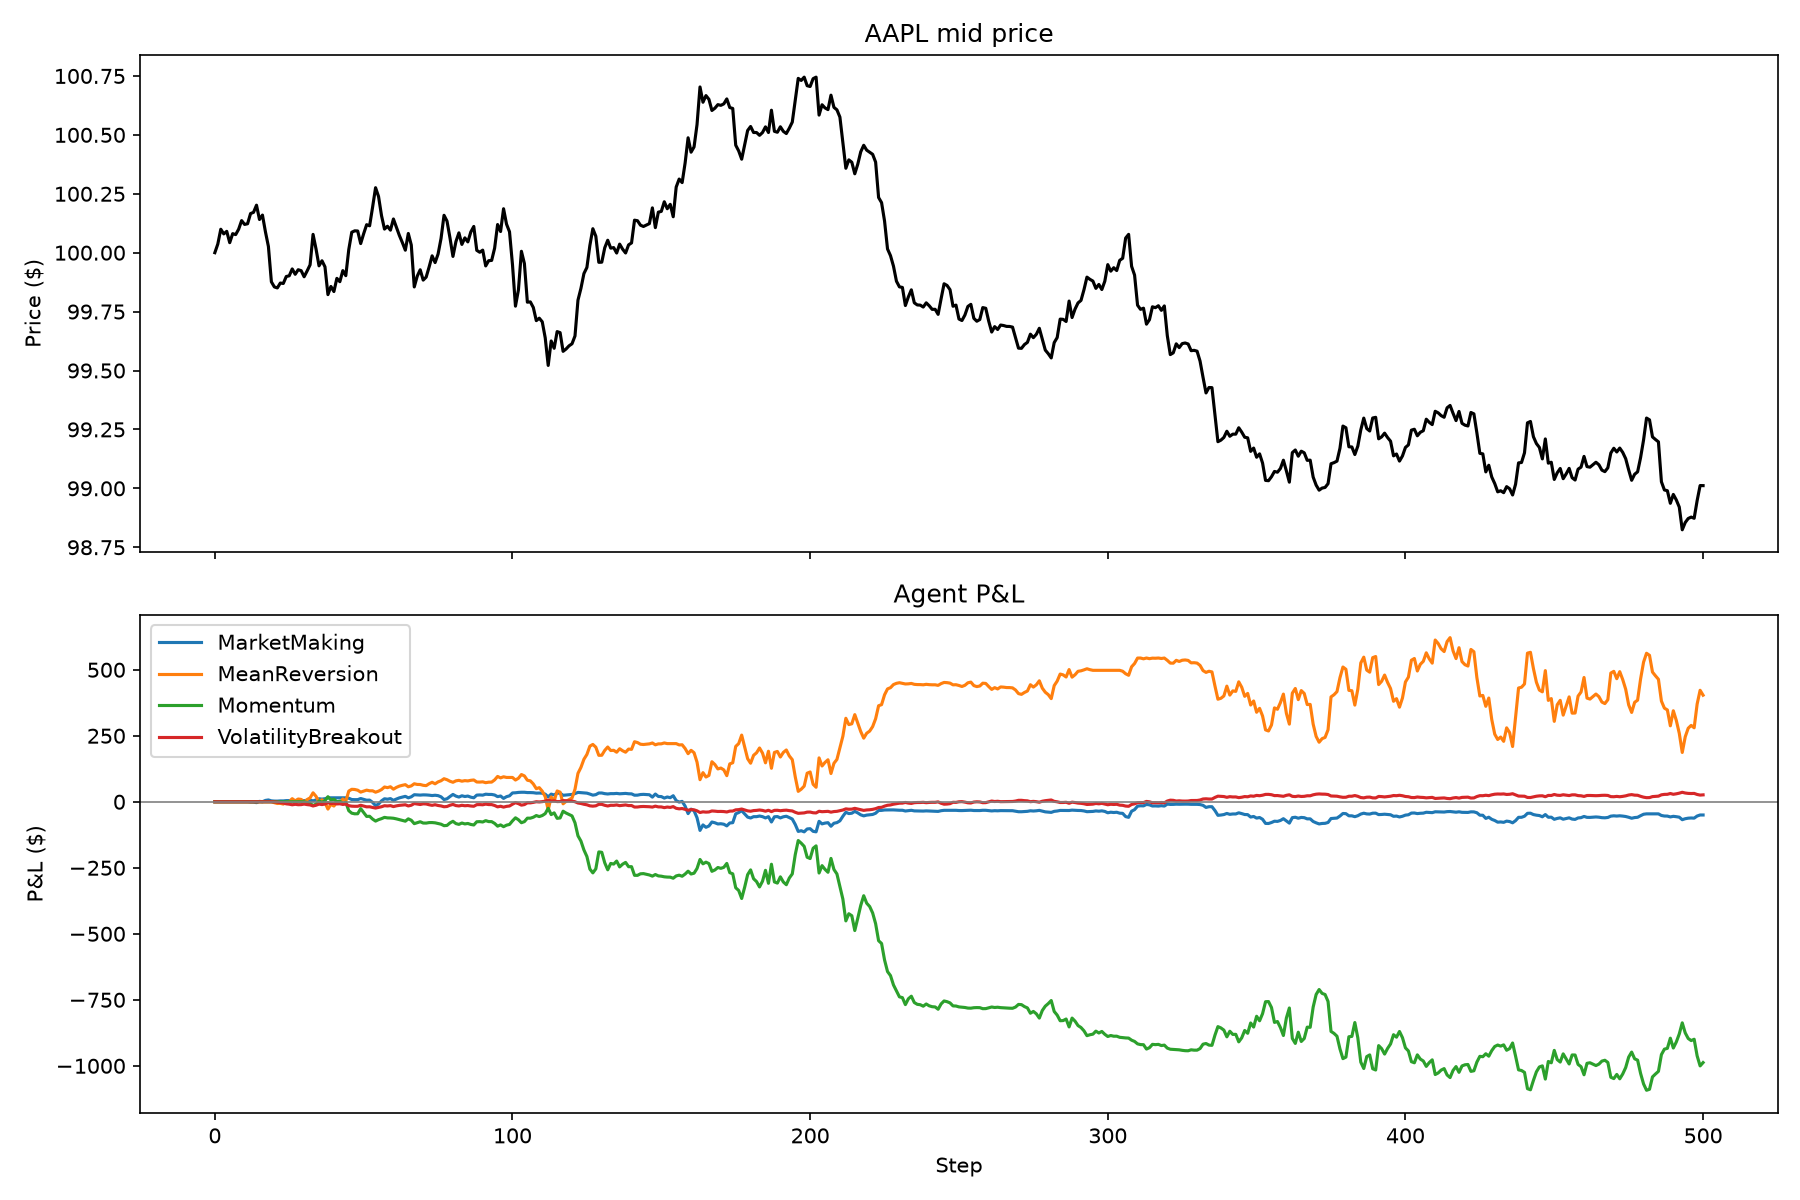
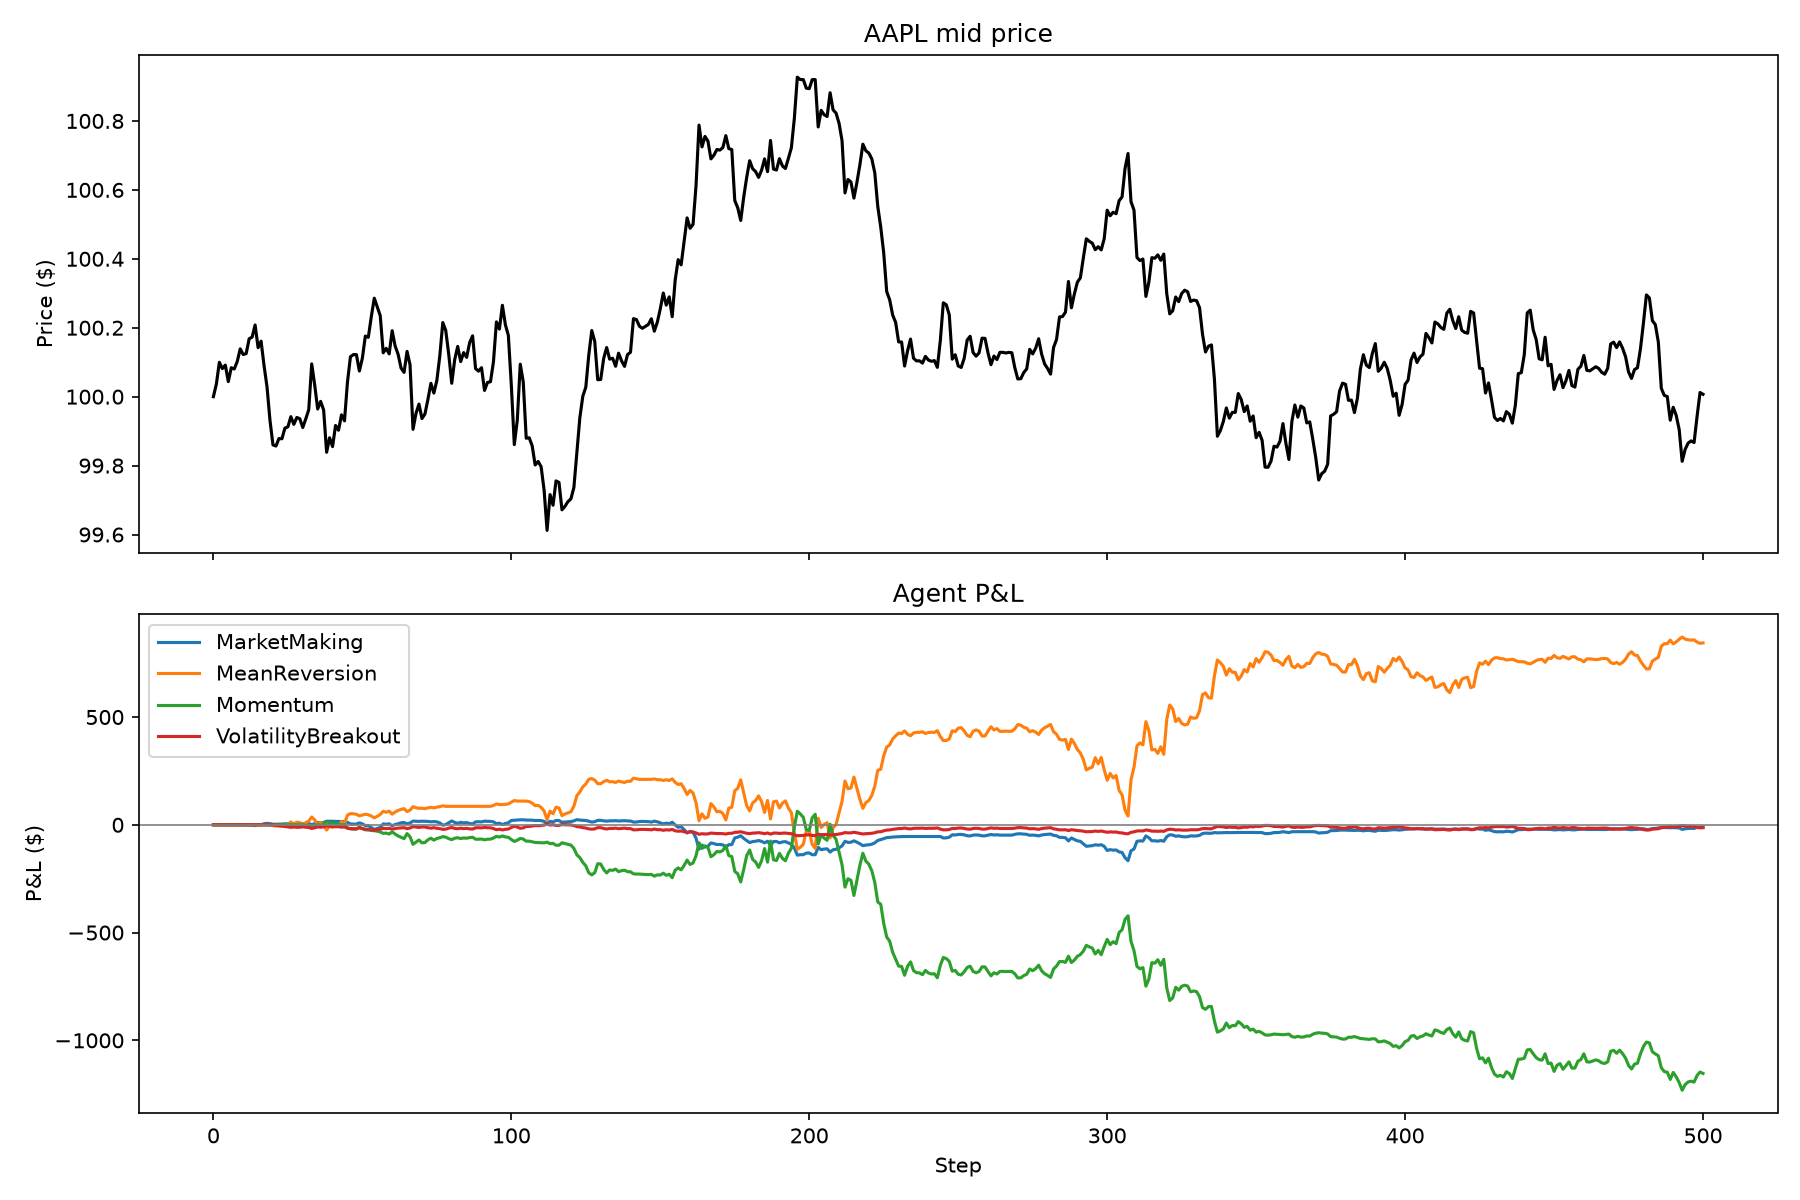
Fix price collapse in long simulations
- Microstructure noise added its level (a slowly wandering value) as a
  return every step instead of its change, giving prices a persistent
  drift that drove them to the $0.01 floor or blew them up over
  ~25k steps. Apply the increment instead.
- Apply model returns multiplicatively (exp) so a large jump can't take
  the price negative.
- Expire market events on simulated time (was wall-clock) and remove an
  event's effect on the price model when it expires, instead of letting
  volatility/drift changes compound until reset.
- Market maker skips quote levels with non-positive prices instead of
  throwing.

A full simulated trading year now runs stably at ~20% annual volatility.

Claude-Session: https://claude.ai/code/session_01LJ8Hwoz8uFqyu6DGKnkQ7m

diff --git a/src/market/market_events.cpp b/src/market/market_events.cpp
@@ -23,7 +23,8 @@ double GBMPriceModel::generatePriceChange(double current_price, double dt) {
     double drift = mu_ * dt;
     double diffusion = sigma_ * std::sqrt(dt) * normal_dist_(rng_);
     
-    return current_price * (drift + diffusion);
+    // Apply the log-return multiplicatively so the price can never go negative
+    return current_price * (std::exp(drift + diffusion) - 1.0);
 }
 
 void GBMPriceModel::updateParameters(const MarketEvent& event) {
@@ -91,7 +92,8 @@ double JumpDiffusionModel::generatePriceChange(double current_price, double dt) 
         jump = jump_mu_ + jump_sigma_ * normal_dist_(rng_);
     }
     
-    return current_price * (drift + diffusion + jump);
+    // Apply the log-return multiplicatively so the price can never go negative
+    return current_price * (std::exp(drift + diffusion + jump) - 1.0);
 }
 
 void JumpDiffusionModel::updateParameters(const MarketEvent& event) {
@@ -146,7 +148,12 @@ MarketEventGenerator::MarketEventGenerator(const std::vector<std::string>& symbo
     }
 }
 
+// dt is in years (the price models' unit); events are timed in trading seconds
+static constexpr double TRADING_SECONDS_PER_YEAR = 252.0 * 6.5 * 3600.0;
+
 void MarketEventGenerator::update(double dt) {
+    sim_seconds_ += dt * TRADING_SECONDS_PER_YEAR;
+    
     // Clear expired events
     clearExpiredEvents();
     
@@ -185,6 +192,7 @@ void MarketEventGenerator::update(double dt) {
         event.end_time = event.start_time + std::chrono::duration_cast<std::chrono::steady_clock::duration>(
             std::chrono::duration<double>(event.duration));
         event.is_active = true;
+        event.sim_end_seconds = sim_seconds_ + event.duration;
         
         // Add to active events
         active_events_.push_back(event);
@@ -215,6 +223,7 @@ void MarketEventGenerator::seed(uint32_t seed) {
 }
 
 void MarketEventGenerator::reset() {
+    sim_seconds_ = 0.0;
     active_events_.clear();
     for (auto& [sym, model] : price_models_) {
         model->reset();
@@ -226,14 +235,24 @@ std::vector<MarketEvent> MarketEventGenerator::getActiveEvents() const {
 }
 
 void MarketEventGenerator::clearExpiredEvents() {
-    auto now = std::chrono::steady_clock::now();
+    size_t before = active_events_.size();
     active_events_.erase(
         std::remove_if(active_events_.begin(), active_events_.end(),
             [&](const MarketEvent& event) {
-                return now > event.end_time;
+                return sim_seconds_ > event.sim_end_seconds;
             }),
         active_events_.end()
     );
+    
+    // An event's effect ends with it: rebuild model parameters from the events still active
+    if (active_events_.size() != before) {
+        for (auto& [sym, model] : price_models_) {
+            model->reset();
+            for (const auto& event : active_events_) {
+                model->updateParameters(event);
+            }
+        }
+    }
 }
 
 double MarketEventGenerator::generatePriceChange(const std::string& symbol, double current_price, double dt) {
@@ -401,6 +420,11 @@ void MicrostructureNoise::seed(uint32_t seed) {
     rng_.seed(seed);
     noise_dist_.reset();
     current_noise_ = 0.0;
+}
+
+double MicrostructureNoise::generateNoiseIncrement(double dt) {
+    double previous = current_noise_;
+    return generateNoise(dt) - previous;
 }
 
 double MicrostructureNoise::generateNoise(double dt) {

diff --git a/include/market/market_events.h b/include/market/market_events.h
@@ -39,6 +39,7 @@ struct MarketEvent {
     double duration;            // How long the event lasts (seconds)
     std::chrono::steady_clock::time_point start_time;
     std::chrono::steady_clock::time_point end_time;
+    double sim_end_seconds = 0.0;  // expiry in simulated trading seconds
     std::string description;
     bool is_active;
     
@@ -118,6 +119,7 @@ private:
     double volatility_multiplier_;
     double correlation_strength_;
     bool verbose_ = true;
+    double sim_seconds_ = 0.0;  // simulated trading seconds elapsed
     
     // Event history
     std::vector<MarketEvent> active_events_;
@@ -184,7 +186,10 @@ private:
     
 public:
     MicrostructureNoise(double amplitude = 0.001, double mean_reversion = 0.1);
+    // Level of the mean-reverting noise process (a relative price deviation)
     double generateNoise(double dt);
+    // Change in that level; add this to returns so noise stays a bounded deviation
+    double generateNoiseIncrement(double dt);
     void seed(uint32_t seed);
     void setAmplitude(double amplitude) { noise_amplitude_ = amplitude; }
 };

diff --git a/src/market/market_maker.cpp b/src/market/market_maker.cpp
@@ -200,6 +200,10 @@ void MarketMaker::placeAskOrders(const std::string& symbol, double ask_price) {
 
 std::shared_ptr<Order> MarketMaker::createOrder(const std::string& symbol, Side side, 
                                                double price, double quantity) {
+    if (!(price > 0.0) || !(quantity > 0.0)) {
+        return nullptr;  // e.g. a deep bid level below zero on a very low-priced symbol
+    }
+    
     auto order = std::make_shared<Order>();
     order->id = getNextOrderId();
     order->side = side;

diff --git a/src/market/market_simulator.cpp b/src/market/market_simulator.cpp
@@ -650,7 +650,7 @@ void MarketSimulator::generatePriceMovement(double dt) {
         
         auto noise_it = noise_generators_.find(symbol);
         if (noise_it != noise_generators_.end()) {
-            price_change += noise_it->second.generateNoise(actual_dt) * current_price;
+            price_change += noise_it->second.generateNoiseIncrement(actual_dt) * current_price;
         }
         
         fair_prices_[symbol] = std::max(0.01, current_price + price_change);
